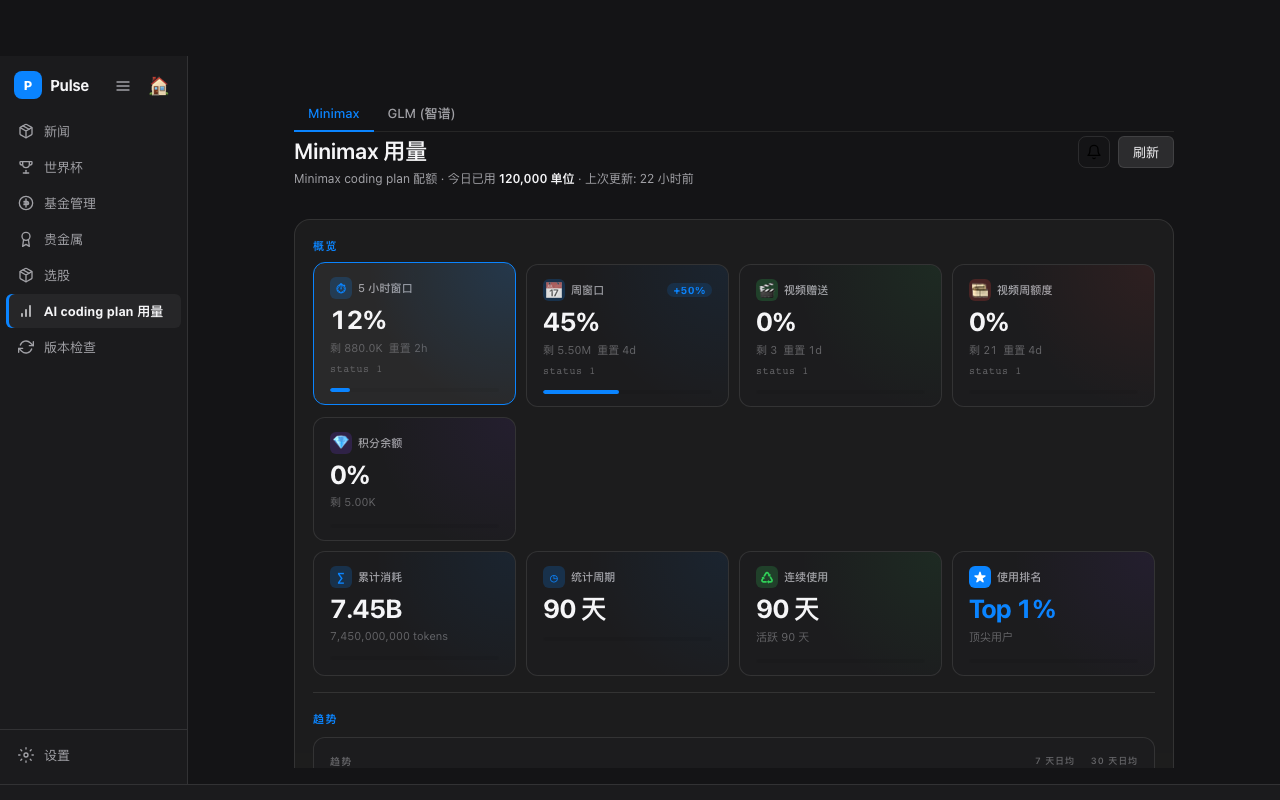
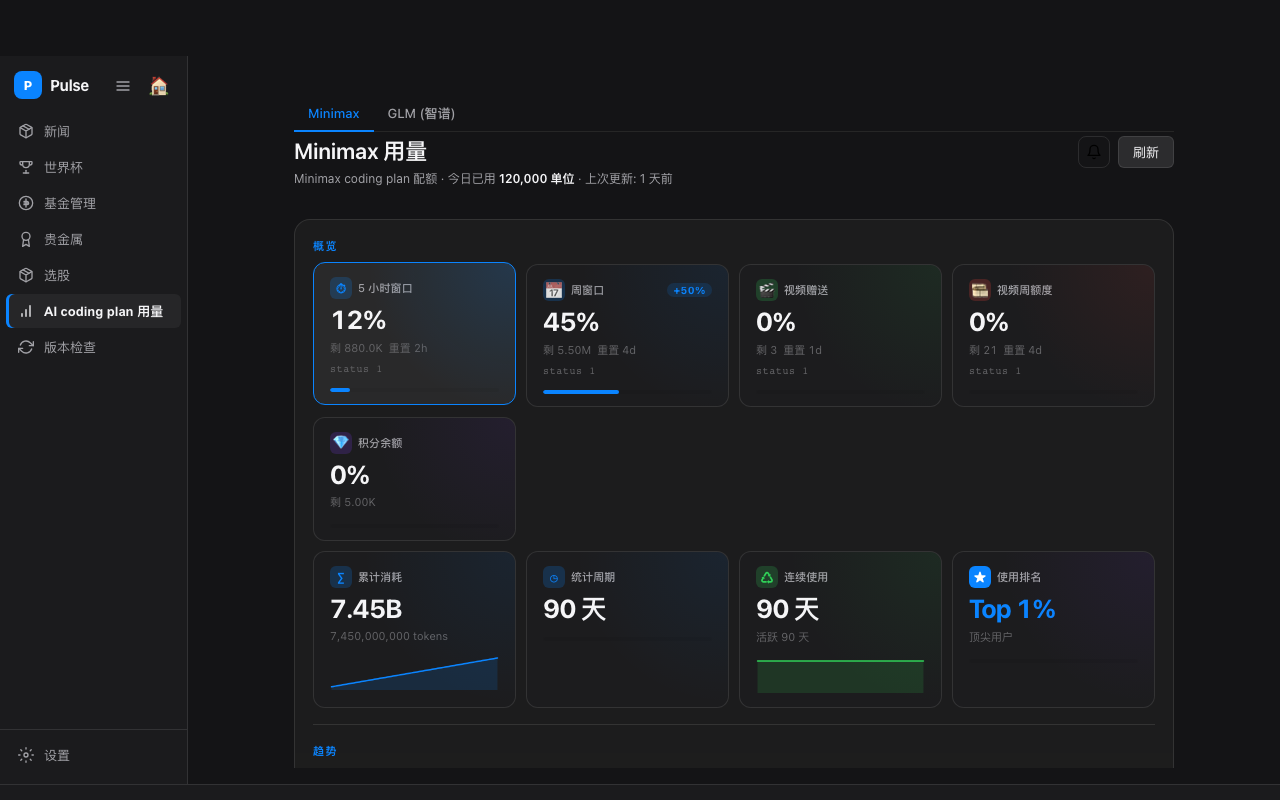
feat(ai-usage): 累计消耗 + 连续使用 KPI 卡占位 bar 换成 mini 折线 sparkline
UsageOverviewStrip 4 张 KPI 卡里, "累计消耗" 跟 "连续使用" 是直接反映用量的
两个指标, 它们的占位空 bar 没有任何信息量. 换成 mini 折线图:

- 累计消耗: 用 dailyTokenUsage (近 90 天每日 token 数) 直接画折线 — 表达
  "近 90 天用量趋势" 的宏观节奏
- 连续使用: 把 dailyTokenUsage 二值化 (>0 → 1, =0 → 0), 画活跃度节奏
  — 表达"近期活跃/沉寂"的二元信号

其他两张 (统计周期 / 使用排名) 不是用量指标, 保持原占位 bar 不动.

实施: 新增 MiniLineChart (纯 SVG, 无依赖, ~40 行), 跟 UsageTrendChart 思路
类似但简化为单序列 mini (220x36 viewBox) + area fill 浅色; 数据缺失渲染
dashed 占位线, 不崩.

测试: +3 case (含累计+连续两卡渲染 / 空数据占位 / undefined 不崩).
301/301 ai-usage + dashboard unit + 6/6 visual baseline.

diff --git a/src/renderer/components/UsageDashboard.jsx b/src/renderer/components/UsageDashboard.jsx
@@ -198,6 +198,7 @@ function formatResetIn(sec) {
  * 仅当 usageSummary 拿到时渲染 (深度统计).
  */
 function UsageOverviewStrip({ usageSummary }) {
+  const daily = Array.isArray(usageSummary.dailyTokenUsage) ? usageSummary.dailyTokenUsage : [];
   const cells = useMemo(() => {
     const out = [];
     const rank = usageSummary.usageRankingPercent;
@@ -210,6 +211,8 @@ function UsageOverviewStrip({ usageSummary }) {
         ? `${formatFull(usageSummary.totalTokenConsumed)} tokens`
         : null,
       accent: "var(--model-color-1)",
+      lineMode: "total",
+      lineValues: daily,
     });
     out.push({
       key: "totalDays",
@@ -232,6 +235,8 @@ function UsageOverviewStrip({ usageSummary }) {
         ? `活跃 ${usageSummary.activeDays} 天`
         : null,
       accent: "var(--model-color-4)",
+      lineMode: "consecutive",
+      lineValues: daily,
     });
     out.push({
       key: "ranking",
@@ -243,7 +248,7 @@ function UsageOverviewStrip({ usageSummary }) {
       highlight: typeof rank === "number" && rank <= 5,
     });
     return out;
-  }, [usageSummary]);
+  }, [usageSummary, daily]);
 
   return (
     <div class="ai-usage-overview">
@@ -259,10 +264,67 @@ function UsageOverviewStrip({ usageSummary }) {
           </div>
           <div class="ai-usage-overview-value">{c.value}</div>
           {c.sub && <div class="ai-usage-overview-sub">{c.sub}</div>}
-          <div class="ai-usage-overview-bar" aria-hidden="true" />
+          {c.lineMode
+            ? <MiniLineChart values={c.lineValues} mode={c.lineMode} />
+            : <div class="ai-usage-overview-bar" aria-hidden="true" />}
         </div>
       ))}
     </div>
+  );
+}
+
+/**
+ * MiniLineChart — 用量 KPI 卡内嵌的 mini 折线 sparkline (纯 SVG, 无依赖).
+ *
+ *  - mode="total": 渲染每日 token 数 (近 90 天趋势)
+ *  - mode="consecutive": 把每日 token 二值化 (>0 → 1, =0 → 0), 渲染活跃度节奏
+ *
+ * 数据缺失 (values 为空 / 全为 null) → 渲染占位横线, 不崩.
+ * ponytail: 复用 UsageTrendChart 的 buildLinePath 思想, 但简化为单序列 mini SVG.
+ */
+function MiniLineChart({ values, mode }) {
+  const W = 220;
+  const H = 36;
+  const PAD = 2;
+
+  const series = useMemo(() => {
+    if (!Array.isArray(values) || values.length === 0) return [];
+    if (mode === "consecutive") {
+      // 二值化: 有数据=1, 无数据=0 — 表达活跃度节奏
+      return values.map((v) => (typeof v === "number" && v > 0 ? 1 : 0));
+    }
+    return values.map((v) => (typeof v === "number" && Number.isFinite(v) && v >= 0 ? v : 0));
+  }, [values, mode]);
+
+  if (series.length === 0) {
+    return (
+      <svg class="ai-usage-overview-line" viewBox={`0 0 ${W} ${H}`} aria-hidden="true">
+        <line x1={PAD} x2={W - PAD} y1={H / 2} y2={H / 2} class="ai-usage-overview-line-empty" />
+      </svg>
+    );
+  }
+
+  const max = mode === "consecutive" ? 1 : series.reduce((m, v) => (v > m ? v : m), 0);
+  const xAt = (i) => PAD + (i * (W - 2 * PAD)) / Math.max(1, series.length - 1);
+  const yAt = (v) => {
+    const norm = max > 0 ? v / max : 0;
+    return H - PAD - norm * (H - 2 * PAD);
+  };
+
+  const path = (() => {
+    let d = "";
+    for (let i = 0; i < series.length; i++) {
+      d += `${i === 0 ? "M" : "L"} ${xAt(i).toFixed(2)} ${yAt(series[i]).toFixed(2)} `;
+    }
+    return d.trim();
+  })();
+  const areaPath = `${path} L ${xAt(series.length - 1).toFixed(2)} ${H - PAD} L ${xAt(0).toFixed(2)} ${H - PAD} Z`;
+
+  return (
+    <svg class="ai-usage-overview-line" viewBox={`0 0 ${W} ${H}`} preserveAspectRatio="none" aria-hidden="true">
+      <path d={areaPath} class="ai-usage-overview-line-area" />
+      <path d={path} class="ai-usage-overview-line-stroke" />
+    </svg>
   );
 }
 

diff --git a/tests/ai-usage/UsageDashboard.test.jsx b/tests/ai-usage/UsageDashboard.test.jsx
@@ -148,4 +148,40 @@ describe("UsageDashboard", () => {
     const { container } = render(<UsageDashboard snapshot={{ usageSummary: { ...SAMPLE, modelBreakdown: [] } }} />);
     expect(container.querySelector(".ai-usage-model-breakdown")).toBe(null);
   });
+
+  // ─── 用量 KPI 卡 mini 折线 sparkline ───────────────────────────────
+
+  test("累计消耗 + 连续使用 两张卡渲染 mini line sparkline", () => {
+    // ponytail: 用 dailyTokenUsage 表达两个用量指标的趋势 — 累计消耗画每日 token 折线,
+    // 连续使用画每日活跃度二值化折线. 其他两张 (统计周期 / 使用排名) 保持占位空 bar.
+    const { container } = render(<UsageDashboard snapshot={{ usageSummary: SAMPLE }} />);
+    // 总共应渲染 2 条 mini 折线 (累计 + 连续) — 其他 2 张没有 lineMode
+    const lines = container.querySelectorAll(".ai-usage-overview-line");
+    expect(lines).toHaveLength(2);
+    // 每条 line 至少一个 path (area + stroke 共 2 个, 但 stroke 即可识别折线存在)
+    const strokes = container.querySelectorAll(".ai-usage-overview-line-stroke");
+    expect(strokes).toHaveLength(2);
+    // 其他 2 张 (统计周期 / 使用排名) 仍然渲染占位空 bar
+    const bars = container.querySelectorAll(".ai-usage-overview-bar");
+    expect(bars).toHaveLength(2);
+  });
+
+  test("dailyTokenUsage 为空 → 折线渲染占位横线, 不崩", () => {
+    const { container } = render(<UsageDashboard snapshot={{
+      usageSummary: { ...SAMPLE, dailyTokenUsage: [] },
+    }} />);
+    const lines = container.querySelectorAll(".ai-usage-overview-line");
+    expect(lines).toHaveLength(2);
+    // 空数据时只有 empty line, 没有 stroke path
+    const empties = container.querySelectorAll(".ai-usage-overview-line-empty");
+    expect(empties).toHaveLength(2);
+    expect(container.querySelector(".ai-usage-overview-line-stroke")).toBe(null);
+  });
+
+  test("dailyTokenUsage 缺失 → 折线仍渲染 (空态), 不崩", () => {
+    const { container } = render(<UsageDashboard snapshot={{
+      usageSummary: { ...SAMPLE, dailyTokenUsage: undefined },
+    }} />);
+    expect(container.querySelectorAll(".ai-usage-overview-line")).toHaveLength(2);
+  });
 });

diff --git a/styles.css b/styles.css
@@ -8338,6 +8338,34 @@ body.platform-win .toast-error { background: rgba(255, 107, 107, 0.14); }
   border-radius: 2px;
   transition: width 200ms ease-out;
 }
+
+/* ▸ KPI 卡内嵌 mini 折线 sparkline (累计消耗 / 连续使用两张用量卡的占位空 bar 替代) */
+.ai-usage-overview-line {
+  display: block;
+  margin-top: 8px;
+  width: 100%;
+  height: 36px;
+  overflow: visible;
+}
+.ai-usage-overview-line-stroke {
+  fill: none;
+  stroke: var(--cell-accent, var(--model-color-1));
+  stroke-width: 1.5;
+  stroke-linejoin: round;
+  stroke-linecap: round;
+  vector-effect: non-scaling-stroke;
+}
+.ai-usage-overview-line-area {
+  fill: var(--cell-accent, var(--model-color-1));
+  opacity: 0.14;
+  stroke: none;
+}
+.ai-usage-overview-line-empty {
+  stroke: var(--surface-2, rgba(0, 0, 0, 0.08));
+  stroke-width: 1;
+  stroke-dasharray: 4 4;
+  vector-effect: non-scaling-stroke;
+}
 .ai-usage-overview-cell--highlight .ai-usage-overview-value {
   color: var(--accent-primary);
 }